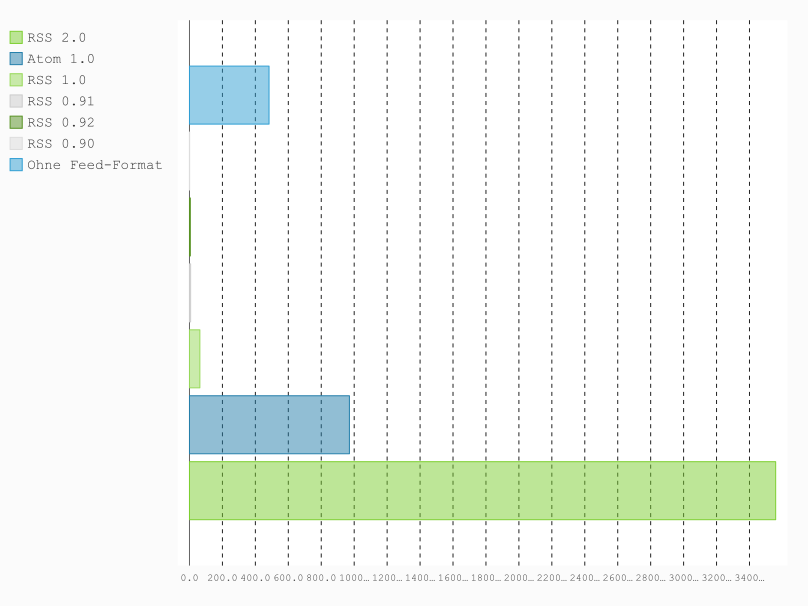
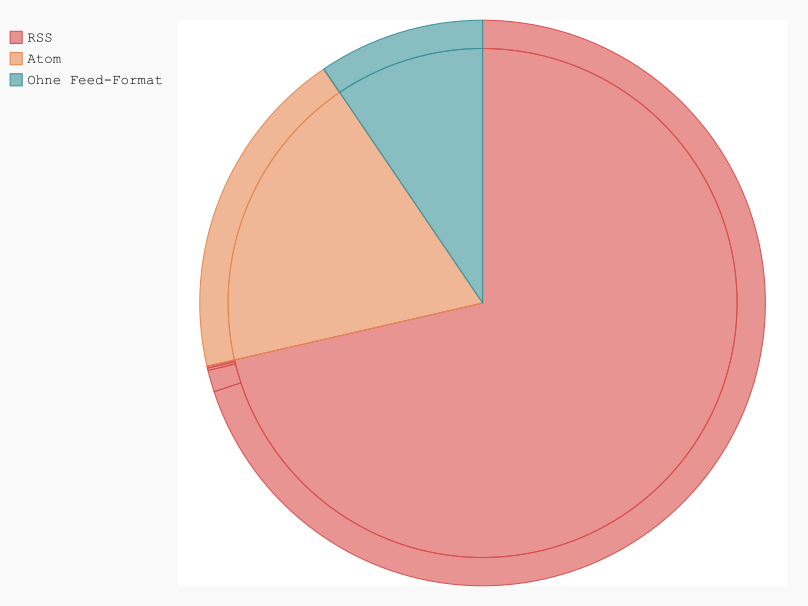
chapter V, bibs, plots

diff --git a/attribute_test/plot_formate.py b/attribute_test/plot_formate.py
@@ -6,13 +6,16 @@ from gi.repository import GObject
 import sys
 import pygal
 from pygal.style import LightGreenStyle
-from pygal.style import LightSolarizedStyle
-from pygal.style import LightStyle
-from pygal.style import RedBlueStyle
 
-pie_chart = pygal.Pie(style=RedBlueStyle, truncate_legend=30)
+
+
+pie_chart = pygal.HorizontalBar(style=LightGreenStyle, truncate_legend=30)
 #pie_chart.title = 'Anteil an last-modified und ETag in HTTP-Header von Feeds'
-pie_chart.add('RSS', [3559, 63, 7, 5, 1])
-pie_chart.add('Atom', [971, 1] )
+pie_chart.add('RSS 2.0', 3559)
+pie_chart.add('Atom 1.0', 971)
+pie_chart.add('RSS 1.0', 63)
+pie_chart.add('RSS 0.91', 7)
+pie_chart.add('RSS 0.92', 5)
+pie_chart.add('RSS 0.90', 1)
 pie_chart.add('Ohne Feed-Format', 483)
 pie_chart.render_to_file('plot_formate.svg')

diff --git a/rst/V/index.rst b/rst/V/index.rst
@@ -5,20 +5,27 @@ Verarbeitung der Feed-Daten
 ***************************
 
 Nach der Beschaffung der Feed-Daten stellt sich die Frage, wie diese Daten
-verarbeitet werden können. In diesem Zusammenhang treten verschiedene
-Problemstellungen auf. 
+verarbeitet werden können. Innerhalb der Projektarbeit *Entwicklung und
+Implementierung eines Feedreaders* (vgl. :cite:`kiessling`) wurde Grundlegendes zu Feeds, deren Format
+und Aufbau erläutert. An dieser Stelle soll nun eine Analyse der zu
+verarbeitenden Feed-Daten durchgeführt werden. Die Verarbeitung der Feed-
+Daten innerhalb von *gylfeed*, sowie der dazu eingesetzte Universal Feedparser
+werden vorgestellt. 
 
 
 Analyse der Feed-Daten
 ======================
 
-Die heruntergeladenen Feed-Daten liegen meist als XML-Datei vor. Nun gilt es,
+Die heruntergeladenen Feed-Daten liegen im Falle von RSS und Atom Feeds als XML-Datei vor. Nun gilt es,
 die Daten aus der XML-Datei zu verarbeiten. Um mehr über die Beschaffenheit
 der vorliegenden Daten aussagen zu können, werden die Daten verschiedener
-Feeds hinsichtlich deren Format und gelieferten Attribute untersucht. Diese
-beiden Faktoren können bei der Verarbeitung der Feed-Daten zu
-Problemen führen. Für beide Tests wurde die bereits in KAPITEL IV 
-verwendete Testmenge von 6.203 Feeds genutzt.
+Feeds hinsichtlich deren Format und gelieferten XML-Elemente untersucht. 
+Diese beiden Faktoren können bei der Verarbeitung der Feed-Daten zu Problemen
+führen. Auf diese Probleme wird an späterer Stelle eingegangen. 
+
+Als Analysewerkzeug wurde der Universal Feedparser verwendet. In Abschnitt
+:ref:`feedparser` wird dieser Feedparser näher vorgestellt. Für beide Tests 
+wurde die bereits in KAPITEL IV verwendete Testmenge von 6.203 Feeds genutzt.
 
 
 
@@ -26,14 +33,23 @@ Feedformate
 -----------
 
 Wie bereits in der Projektarbeit *Entwicklung und Implementierung eines
-Feedreaders* erwähnt, gibt es eine Vielzahl an Feedformaten und diese in
+Feedreaders* (vgl. :cite:`kiessling`) erwähnt, gibt es eine Vielzahl an Feedformaten und diese in
 verschiedenen Versionen. Allein das Format RSS (Really Simple Syndication) 
-wurde in sechs verschiedenen Versionen veröffentlicht (vlg. :cite:`HU` - Historie der RSS-Versionen).
+wurde in sechs verschiedenen Versionen veröffentlicht (vgl. :cite:`HU` - Historie der RSS-Versionen).
 
 Es soll nun anhand einer
 Stichprobe untersucht werden, wie häufig die verschiedenen Feedformate in der
-Praxis eingesetzt werden. Ziel ist es, eine Aussage treffen zu können, welche
+Praxis eingesetzt werden. Ziel ist es, einen Eindruck zu gewinnen, welche
 Feedformate tendenziell häufiger als andere verwendet werden.
+
+Das Ergebnis in Tabelle :num:`format-statistics` zeigt, dass von den 5.092 Dateien,
+die von der gesamten Testmenge (6.203) heruntergeladen werden konnten, das Format
+RSS in der Version 2.0 am häufigsten vorkommt. Atom in der Version 1.0 ist mit
+einem Vorkommen von 971 das zweithäufigste Format. Alle anderen erkannten
+Formate machen zusammen mit einem Wert von 79 einen geringen Anteil aus.
+Dateien, die entweder kein Feed oder fehlerhaft waren, betragen 483.
+
+
 
 .. _plot:
 
@@ -46,29 +62,141 @@ Feedformate tendenziell häufiger als andere verwendet werden.
     Stichprobe von 6.203 Feeds.  
 
 
+    
+.. figtable::
+    :label: format-statistics
+    :caption: Testergebnisse der Prüfung auf Feedformat für 5.092
+              heruntergeladene Dateien.
+    :alt: Testergebnisse der Prüfung auf Feedformat.
+    :spec: l l r
+
+    ============================================ ============  ==========
+      **Feedformat/Vorkommen**                    **absolut**   **in %** 
+    ============================================ ============  ==========
+     **RSS 2.0**                                    3.559         69,89    
+     **RSS 1.0**                                       63           1,24    
+     **RSS 0.91**                                       7           0,14    
+     **RSS 0.92**                                       5         0,10    
+     **RSS 0.90**                                       1         0,02    
+     **Atom 1.0**                                     971           19,07    
+     **Atom 0.3**                                       3           0,06    
+     **ohne Format/fehlerhafte**                      483           9,48    
+     |hline| **gesamte Dateien**                   5.092         100,00
+    ============================================ ============  ==========
+
+- Evtl. darauf eingehen, warum es problematisch ist, dass es viele
+  unterschiedliche Formate gibt...Deshalb nutzt gylfeed den Universal
+  Feedparser...deckt Großteil der Formate ab...war keine Anforderung an gylfeed,
+  dass sämtliche Formate gelesen werden können, UFP reicht vorerst aus.
 
 
-Attribute
----------
+XML-Elemente
+------------
 
-- Nicht alle Attribute sind Pflicht
+Nicht alle in den jeweiligen Spezifikationen der Feed-Formate definierten Elemente
+sind zwingend erforderlich. Das ist verständlich, weil nicht jeder Anbieter
+eines Feeds alle möglichen Elemente nutzen möchte. Für die Verarbeitung der Daten
+durch den Feedreader ist jedoch kritisch zu betrachten, dass die Anzahl der
+flicht-Elemente gering ist. Es muss damit gerechnet werden, dass erwartete
+Elemente fehlen können. 
+
+Als Beispiel soll das Format RSS 2.0 betrachtet werden.
+Für das in der Stichprobe am häufigsten vorkommende Format RSS 2.0 sind lediglich die
+Elemente *title*, *link* und *description* bezogen auf den Feed selbst(channel) zwingend
+erforderlich. Die Elemente der einzelnen Einträge (items) sind alle optional.
+In der Spezifikation wird darauf hingewiesen, dass für einen Eintrag 
+mindestens eines der Elemente *title* oder *description* vorhanden sein
+muss (vgl. :cite:`rssrequests` -- Spezifikation von RSS 2.0).
+
+
+.. code-block:: xml
+
+    <?xml version="1.0" encoding="utf-8"?>
+    <rss version="2.0">
+        <channel>
+            <title>Titel des Feeds</title>
+            <link>URL der Webpräsenz</link>
+            <description>Kurze Beschreibung des Feeds</description>
+            <language>Sprache des Feeds</language>
+            <copyright>Autor des Feeds</copyright>
+            <pubDate>Erstellungsdatum</pubDate>
+            <image>
+                <url>URL einer einzubindenden Grafik</url>
+                <title>Bildtitel</title>
+                <link>URL, mit der das Bild verknüpft ist</link>
+            </image>
+            <item>
+                <title>Titel des Eintrags</title>
+                <description>Kurze Zusammenfassung des Eintrags</description>
+                <link>Link zum vollständigen Eintrag</link>
+                <author>Autor des Artikels, E-Mail-Adresse</author>
+                <guid>Eindeutige Identifikation des Eintrages</guid>
+                <pubDate>Datum des Items</pubDate>
+            </item>
+       </channel>
+    </rss>
+
+
+- nur ein Ausschnitt aller Elemente, vollständige Liste im Anhang?
+
+
+- Nicht alle Elemente sind Pflicht
 - Selbst die Pflicht-Attribute können fehlen.
 
 
-Fehlende Attribute sind eine weitere Herausforderung, die sich bei der
-Verarbeitung der Feed-Daten ergeben.
+-- Für die Verarbeitung dieser Daten durch den Feedreader bedeutet dies, dass
+  mit fehlenden Attributen gerechnet werden muss.
 
-Inwiefern fehlende Attribute bei der Umsetzung eines Feedreaders von Bedeutung sind,
+
+Inwiefern fehlende Elemente bei der Umsetzung eines Feedreaders von Bedeutung sind,
 soll anhand einer Stichprobe untersucht werden. Dabei wird davon ausgegangen,
-dass der *Titel*, der *Plot*, das *Datum* und der *Autor* der Feed-Nachricht vom
-Feedreader benötigt werden. Die Stichprobe soll auf diese vier Attribute
+dass der *Titel*, der *Plot*, das *Datum* und der *Autor* eines Eintrags (items) vom
+Feedreader benötigt werden. Die Stichprobe soll auf diese vier Elemente
 getestet werden.
 
 
+'id': 4345, 
+'title': 4478,
+'icon': 40, 
+'image': 1129, 
+'author': 3632, 
+'logo': 70, 
+'link': 4500, 
+'counter': 5092, 
+'summary': 4442,
+'updated_parsed': 4409
 
-Für die Analysen wurde der Universal Feedparser verwendet. Im folgenden
-Abschnitt wird der Universal Feedparser näher vorgestellt.
+.. figtable::
+    :label: elemente-statistics
+    :caption: Testergebnisse der Prüfung auf XML-Elemente für 5.092
+              heruntergeladene Dateien.
+    :alt: Testergebnisse der Prüfung auf vorhandede XML-Elemente.
+    :spec: l l r
 
+    =============================================== ============  ==========
+      **XML-Element/Vorkommen**                      **absolut**   **in %** 
+    =============================================== ============  ==========
+     **title**                                      4.478         97,16   
+     **link**                                       4.500         97,64    
+     **description**                                4.442         96,38    
+     **date**                                       4.409         95,66    
+     **author**                                     3.632         78,80    
+     |hline| **gesamte Dateien abzgl. fehlerhafte** 4.609         100,00
+    =============================================== ============  ==========
+
+Das Testergebnis in Tabelle :num:`elemente-statistics` zeigt, dass die Elemente
+*title*, *link*, *description* und *date* bei einem Großteil der getesteten Feeds
+vorhanden sind. Das Element *author* ist hingegen seltener vorhanden.
+
+Auch wenn das Ergebnis zeigt, dass diese Elemente für einen großen Teil der 
+getesteten Feeds vorhanden sind, müssen die wenigen Feeds mit fehlenden Elementen
+entsprechend behandelt werden.
+
+Interessant zu betrachten wäre an dieser Stelle die Forderung aus der
+Spezifikation von RSS 2.0, dass es bei Items keine Pflicht-Elemente gibt, aber
+entweder *title* oder *description* vorhanden sein sollte.
+
+.. _feedparser:
 
 Der Universal Feedparser
 ========================
